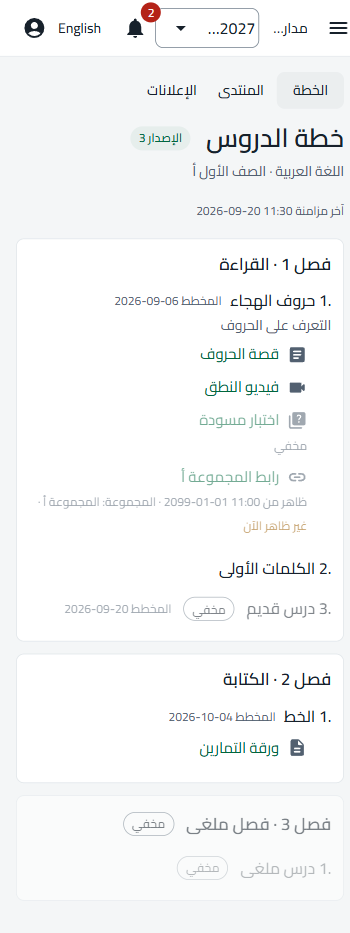
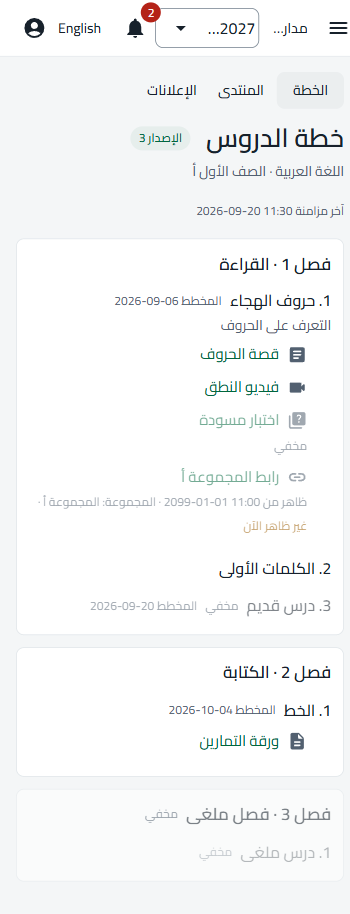
fix(ui): plan page: keep lesson numbers as before, hidden notes as muted captions (#516)

diff --git a/tests/Lms.Client.Tests/Pages/Classes/LessonPlanPageTests.cs b/tests/Lms.Client.Tests/Pages/Classes/LessonPlanPageTests.cs
@@ -41,6 +41,15 @@ public sealed class LessonPlanPageTests : LessonPlansTestContext
     }
 
     [Fact]
+    public async Task Hidden_lessons_and_chapters_show_a_muted_note_not_a_chip()
+    {
+        var page = await OpenAsync();
+
+        Assert.Equal(3, page.FindAll("[data-testid=plan-hidden-note]").Count);   // two hidden lessons and one hidden chapter
+        Assert.DoesNotContain(page.FindAll(".mud-chip"), c => c.TextContent.Trim() == "Hidden");
+    }
+
+    [Fact]
     public async Task Student_tree_has_no_hidden_lessons()
     {
         Plans.HideHiddenItems = true;
@@ -101,15 +110,6 @@ public sealed class LessonPlanPageTests : LessonPlansTestContext
         var expected = new DateTime(2026, 9, 20, 8, 30, 0, DateTimeKind.Utc).ToLocalTime().ToString("yyyy-MM-dd HH:mm", CultureInfo.InvariantCulture);
         var span = page.Find("[data-testid=plan-header]").QuerySelectorAll("span[dir=ltr]").FirstOrDefault(x => x.TextContent.Trim() == expected);
         Assert.NotNull(span);
-    }
-
-    [Fact]
-    public async Task Lesson_numbers_are_isolated_so_arabic_does_not_move_the_dot()
-    {
-        var page = await OpenAsync(culture: "ar");
-
-        var lesson = page.Find("[data-testid=plan-lesson-00000000-0000-0000-0000-0000000000b1]");
-        Assert.Contains("<span dir=\"ltr\">1.</span>", lesson.InnerHtml);
     }
 
     [Fact]
